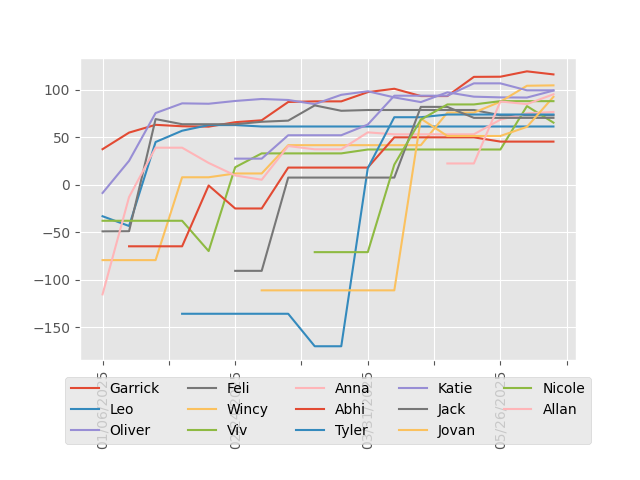
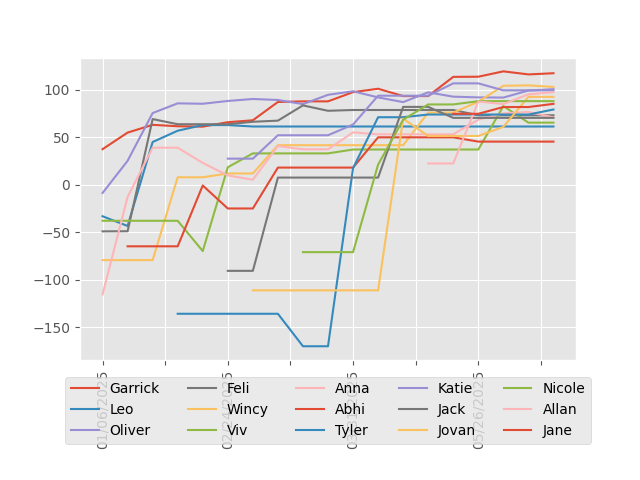
update rankings

diff --git a/README.md b/README.md
@@ -6,19 +6,19 @@
 
 | Player | ELO | Wins | Losses | Win % |
 | --- | --- | --- | --- | --- |
-| Garrick | 116.37 | 30 | 23 | 57% |
+| Garrick | 117.60 | 33 | 24 | 58% |
 | Rachel | 105.65 | 3 | 2 | 60% |
-| Wincy | 104.82 | 12 | 11 | 52% |
+| Wincy | 103.18 | 13 | 12 | 52% |
+| Oliver | 100.79 | 32 | 37 | 46% |
 | Katie | 99.58 | 12 | 11 | 52% |
-| Oliver | 99.34 | 29 | 36 | 45% |
-| Allan | 95.43 | 4 | 10 | 29% |
+| Allan | 97.62 | 6 | 10 | 38% |
 | Jovan | 92.73 | 3 | 7 | 30% |
 | Nicole | 88.18 | 8 | 11 | 42% |
+| Jane | 85.33 | 3 | 7 | 30% |
 | Nicole(Tyler) | 83.97 | 3 | 2 | 60% |
-| Jane | 81.98 | 2 | 4 | 33% |
-| Anna | 76.77 | 13 | 15 | 46% |
-| Tyler | 74.09 | 4 | 8 | 33% |
+| Tyler | 79.36 | 6 | 8 | 43% |
 | Feli | 73.31 | 8 | 20 | 29% |
+| Anna | 71.17 | 14 | 18 | 44% |
 | Jack | 70.56 | 3 | 10 | 23% |
 | Serene | 69.04 | 1 | 3 | 25% |
 | Susan | 67.45 | 2 | 4 | 33% |
@@ -29,9 +29,9 @@
 | Vittoria | 47.34 | 3 | 6 | 33% |
 | Abhi | 45.53 | 6 | 10 | 38% |
 | Lil Su | 44.64 | 0 | 2 | 0% |
+| Phoebe | 43.68 | 2 | 4 | 33% |
 | Narin | 41.65 | 1 | 4 | 20% |
 | Angela(Oliver) | 39.28 | 1 | 1 | 50% |
-| Phoebe | 39.21 | 1 | 3 | 25% |
 | Vivian | 33.61 | 3 | 0 | 100% |
 | Kristy | 27.45 | 0 | 5 | 0% |
 | Kuki | 22.22 | 0 | 5 | 0% |
@@ -40,7 +40,9 @@
 | Simon | 7.96 | 0 | 1 | 0% |
 | Jordan | -24.61 | 2 | 1 | 67% |
 | Karen | -33.11 | 2 | 2 | 50% |
+| Tara | -40.88 | 1 | 3 | 25% |
 | Angelica | -54.02 | 1 | 0 | 100% |
+| Gloria | -56.26 | 1 | 1 | 50% |
 | Harsha | -63.63 | 3 | 5 | 38% |
 | David(Aus) | -64.75 | 1 | 2 | 33% |
 | Kevin(Aus) | -64.75 | 1 | 2 | 33% |
@@ -48,6 +50,7 @@
 | Mandy | -70.69 | 2 | 2 | 50% |
 | Howard | -83.52 | 3 | 4 | 43% |
 | Eric | -92.49 | 0 | 4 | 0% |
+| Myron | -93.39 | 1 | 2 | 33% |
 | Jonathan(Oliver) | -104.12 | 1 | 1 | 50% |
 | Michael | -112.81 | 0 | 3 | 0% |
 | LeoPan | -134.86 | 1 | 2 | 33% |
@@ -62,35 +65,36 @@
 
 | Player | ELO | Wins | Losses | Win % |
 | --- | --- | --- | --- | --- |
-| Garrick | 55.76 | 6 | 3 | 67% |
+| Garrick | 48.13 | 6 | 4 | 60% |
 | Jovan | 27.70 | 1 | 1 | 50% |
+| Jane | 21.71 | 2 | 1 | 67% |
 | Katie | 11.91 | 2 | 1 | 67% |
 | Viv | 6.45 | 2 | 0 | 100% |
 | Jack | 5.61 | 1 | 4 | 20% |
-| Jane | -6.35 | 1 | 1 | 50% |
-| Oliver | -11.64 | 3 | 6 | 33% |
+| Oliver | -0.32 | 4 | 6 | 40% |
 | Nicole | -11.81 | 1 | 1 | 50% |
 | Leo | -27.87 | 2 | 1 | 67% |
+| Tara | -29.34 | 1 | 0 | 100% |
 | Serene | -32.38 | 1 | 0 | 100% |
 | Feli | -46.23 | 1 | 2 | 33% |
+| Wincy | -67.48 | 0 | 2 | 0% |
 | Eric | -70.13 | 0 | 2 | 0% |
 | Karen | -70.13 | 0 | 2 | 0% |
 | Freya | -70.13 | 0 | 2 | 0% |
-| Wincy | -86.33 | 0 | 1 | 0% |
+| Anna | -76.45 | 0 | 3 | 0% |
 | Michael | -87.24 | 0 | 1 | 0% |
-| Anna | -88.18 | 0 | 2 | 0% |
 
 
 ### Secret Hitler
 
 | Player | ELO | Wins | Losses | Win % |
 | --- | --- | --- | --- | --- |
-| Oliver | 88.36 | 11 | 2 | 85% |
-| Garrick | 49.75 | 9 | 3 | 75% |
-| Wincy | 3.73 | 6 | 2 | 75% |
+| Oliver | 96.39 | 12 | 2 | 86% |
+| Garrick | 58.08 | 10 | 3 | 77% |
+| Wincy | 13.50 | 7 | 2 | 78% |
 | Nicole | -0.79 | 5 | 0 | 100% |
 | Viv | -17.37 | 4 | 1 | 80% |
-| Anna | -21.37 | 6 | 4 | 60% |
+| Anna | -25.12 | 6 | 5 | 55% |
 | Karen | -44.66 | 2 | 0 | 100% |
 | Abhi | -65.21 | 3 | 4 | 43% |
 | Vittoria | -78.74 | 1 | 1 | 50% |
@@ -104,6 +108,9 @@
 | Tyler | -88.66 | 1 | 1 | 50% |
 | Mandy | -91.00 | 1 | 1 | 50% |
 | Howard | -101.01 | 1 | 2 | 33% |
+| Tara | -104.94 | 0 | 1 | 0% |
+| Jane | -104.94 | 0 | 1 | 0% |
+| Myron | -104.94 | 0 | 1 | 0% |
 | Harsha | -106.72 | 1 | 3 | 25% |
 | Kuki | -108.69 | 0 | 1 | 0% |
 | Jack | -109.49 | 1 | 2 | 33% |
@@ -126,39 +133,42 @@
 
 | Player | ELO | Wins | Losses | Win % |
 | --- | --- | --- | --- | --- |
+| Garrick | 13.71 | 9 | 4 | 69% |
 | Katie | -11.06 | 4 | 1 | 80% |
 | Wincy | -13.22 | 4 | 1 | 80% |
-| Garrick | -22.76 | 7 | 4 | 64% |
 | Jacky(Feli) | -33.72 | 2 | 0 | 100% |
 | Nicole(Tyler) | -35.39 | 2 | 0 | 100% |
 | Rachel | -35.39 | 2 | 0 | 100% |
 | Vivian | -40.61 | 2 | 0 | 100% |
 | Angelica | -49.59 | 1 | 0 | 100% |
 | Jordan | -49.59 | 1 | 0 | 100% |
+| Tyler | -55.81 | 4 | 3 | 57% |
 | David(Aus) | -67.38 | 1 | 1 | 50% |
 | Kevin(Aus) | -67.38 | 1 | 1 | 50% |
-| Phoebe | -67.38 | 1 | 1 | 50% |
+| Myron | -68.25 | 1 | 1 | 50% |
+| Anna | -68.40 | 5 | 6 | 45% |
 | Abhi | -70.08 | 3 | 4 | 43% |
 | Leo | -70.70 | 2 | 2 | 50% |
+| Phoebe | -70.75 | 2 | 2 | 50% |
 | Bonnie | -71.66 | 1 | 0 | 100% |
+| Allan | -73.10 | 2 | 2 | 50% |
 | Mandy | -75.74 | 1 | 1 | 50% |
 | Vittoria | -75.74 | 1 | 1 | 50% |
 | Harsha | -78.84 | 2 | 2 | 50% |
 | Howard | -84.17 | 2 | 2 | 50% |
-| Anna | -84.91 | 4 | 5 | 44% |
 | Peter | -95.06 | 1 | 2 | 33% |
 | Jack | -97.05 | 1 | 2 | 33% |
-| Tyler | -104.26 | 2 | 3 | 40% |
+| Gloria | -103.20 | 1 | 1 | 50% |
 | Feli | -105.54 | 2 | 4 | 33% |
 | LeoPan | -108.62 | 1 | 1 | 50% |
 | Viv | -108.62 | 1 | 1 | 50% |
-| Jane | -113.67 | 0 | 1 | 0% |
+| Oliver | -110.14 | 5 | 10 | 33% |
 | Nicole | -117.63 | 2 | 4 | 33% |
-| Oliver | -123.22 | 4 | 9 | 31% |
 | Kuki | -132.39 | 0 | 2 | 0% |
-| Allan | -133.01 | 0 | 2 | 0% |
 | Jovan | -133.01 | 0 | 2 | 0% |
 | Kristy | -140.28 | 0 | 2 | 0% |
+| Tara | -142.89 | 0 | 2 | 0% |
+| Jane | -152.61 | 0 | 3 | 0% |
 
 
 ### Monopoly Deal
